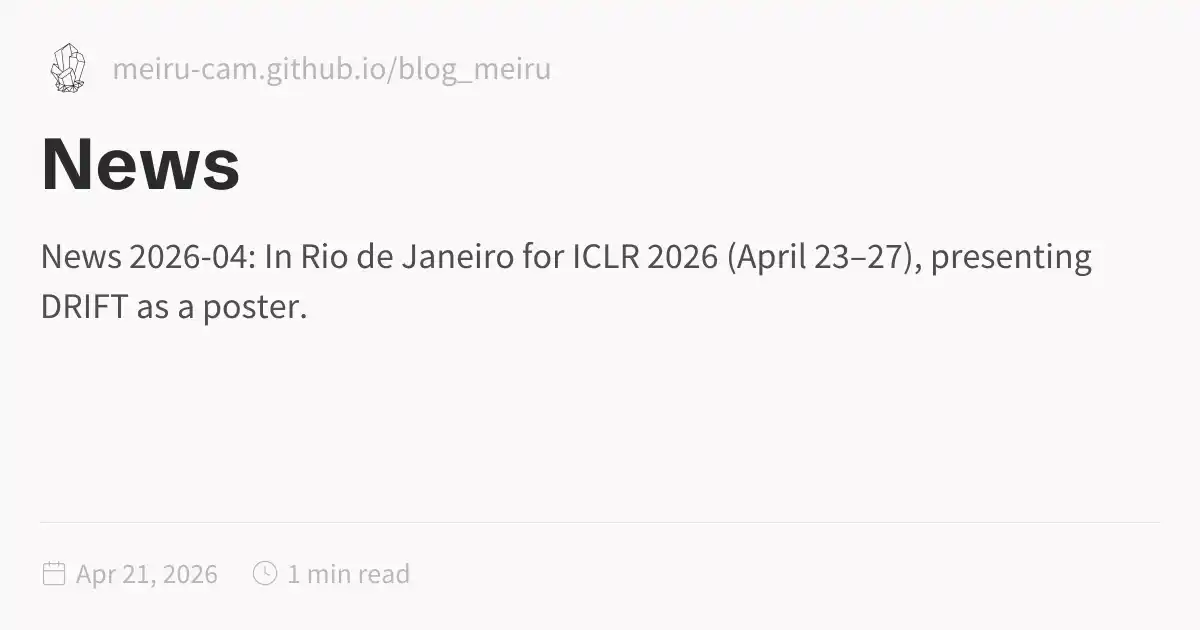
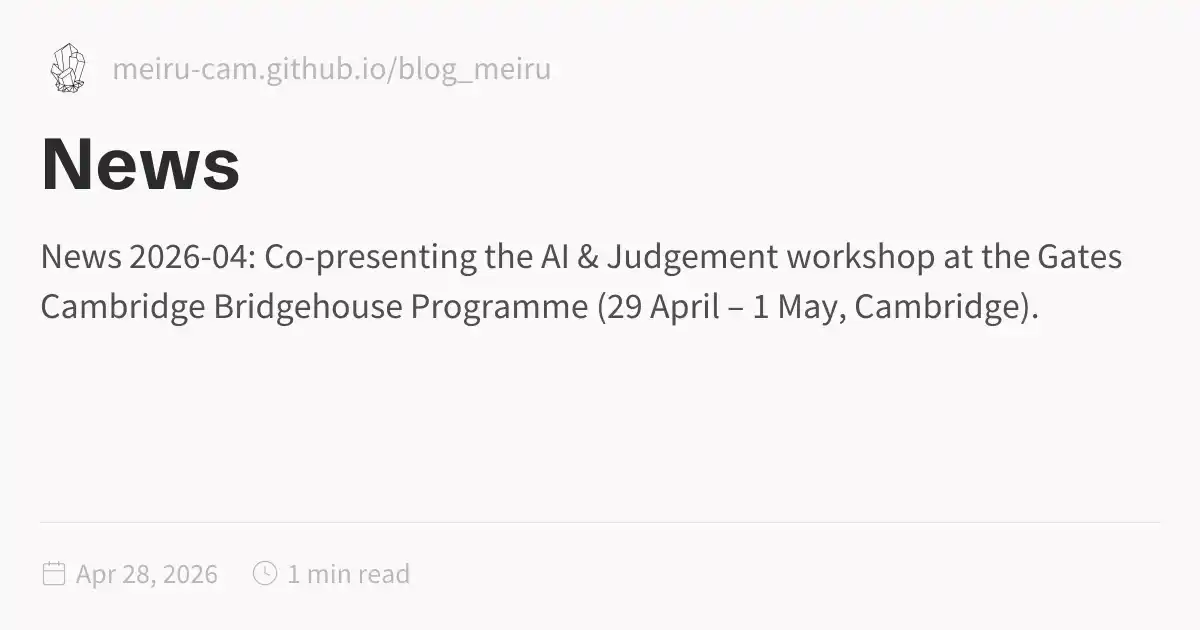
deploy: a9d456ec325950a489e578d77a48ade45badf2bd

Changed region(s): [[0.0308, 0.3921, 0.9558, 0.5127], [0.0925, 0.9048, 0.1233, 0.9349]]

diff --git a/Projects.html b/Projects.html
@@ -116,14 +116,11 @@ pre:hover > .expand-button {
   padding: 0 12px;
   font-size: 14px;
 }
[2 lines of base64/hex data omitted]
 <h2 id="priaxis--autonomous-personalised-agent-system"><a href="https://github.com/meiru-cam/Priaxis" class="external">Priaxis<svg aria-hidden="true" class="external-icon" style="max-width:0.8em;max-height:0.8em;" viewBox="0 0 512 512"><path d="M320 0H288V64h32 82.7L201.4 265.4 178.7 288 224 333.3l22.6-22.6L448 109.3V192v32h64V192 32 0H480 320zM32 32H0V64 480v32H32 456h32V480 352 320H424v32 96H64V96h96 32V32H160 32z"></path></svg></a> — Autonomous Personalised Agent System<a role="anchor" aria-hidden="true" tabindex="-1" data-no-popover="true" href="#priaxis--autonomous-personalised-agent-system" class="internal"><svg width="18" height="18" viewBox="0 0 24 24" fill="none" stroke="currentColor" stroke-width="2" stroke-linecap="round" stroke-linejoin="round"><path d="M10 13a5 5 0 0 0 7.54.54l3-3a5 5 0 0 0-7.07-7.07l-1.72 1.71"></path><path d="M14 11a5 5 0 0 0-7.54-.54l-3 3a5 5 0 0 0 7.07 7.07l1.71-1.71"></path></svg></a></h2>
 <p><em>2025 – Present</em></p>
 <p><strong>Challenge:</strong> How can an LLM agent autonomously manage personal goals while adapting to individual user context without explicit instruction?</p>
 <p><strong>Approach:</strong> A multi-agent system built on the Claude Code SDK and the Model Context Protocol (MCP) for structured tool use, with personalised planning and execution grounded in user history and preferences.</p>
-<h2 id="agent-survey--mismatch-in-language-agents-tmlr-in-preparation">Agent Survey — <em>Mismatch in Language Agents</em> (TMLR, in preparation)<a role="anchor" aria-hidden="true" tabindex="-1" data-no-popover="true" href="#agent-survey--mismatch-in-language-agents-tmlr-in-preparation" class="internal"><svg width="18" height="18" viewBox="0 0 24 24" fill="none" stroke="currentColor" stroke-width="2" stroke-linecap="round" stroke-linejoin="round"><path d="M10 13a5 5 0 0 0 7.54.54l3-3a5 5 0 0 0-7.07-7.07l-1.72 1.71"></path><path d="M14 11a5 5 0 0 0-7.54-.54l-3 3a5 5 0 0 0 7.07 7.07l1.71-1.71"></path></svg></a></h2>
-<p><em>2025 – Present</em></p>
-<p>A collaborative survey on mismatch phenomena in large language model agents: where agent behaviour diverges from intended specification, user expectation, or environmental state. Mapping failure modes across planning, tool use, memory, and evaluation.</p>
 <h2 id="this-site">This Site<a role="anchor" aria-hidden="true" tabindex="-1" data-no-popover="true" href="#this-site" class="internal"><svg width="18" height="18" viewBox="0 0 24 24" fill="none" stroke="currentColor" stroke-width="2" stroke-linecap="round" stroke-linejoin="round"><path d="M10 13a5 5 0 0 0 7.54.54l3-3a5 5 0 0 0-7.07-7.07l-1.72 1.71"></path><path d="M14 11a5 5 0 0 0-7.54-.54l-3 3a5 5 0 0 0 7.07 7.07l1.71-1.71"></path></svg></a></h2>
 <p><em>2025 – Present</em></p>
 <p>A Quartz-based academic site that doubles as a public research notebook. Blog posts cover literature reviews, PhD reflections, and technical deep-dives on topics like position bias in RAG systems.</p></article><hr/><div class="page-footer"></div></div><div class="right sidebar"><div class="graph"><h3>Graph View</h3><div class="graph-outer"><div class="graph-container" data-cfg="{&quot;drag&quot;:true,&quot;zoom&quot;:true,&quot;depth&quot;:1,&quot;scale&quot;:1.1,&quot;repelForce&quot;:0.5,&quot;centerForce&quot;:0.3,&quot;linkDistance&quot;:30,&quot;fontSize&quot;:0.6,&quot;opacityScale&quot;:1,&quot;showTags&quot;:true,&quot;removeTags&quot;:[],&quot;focusOnHover&quot;:false,&quot;enableRadial&quot;:false}"></div><button class="global-graph-icon" aria-label="Global Graph"><svg version="1.1" xmlns="http://www.w3.org/2000/svg" xmlns:xlink="http://www.w3.org/1999/xlink" x="0px" y="0px" viewBox="0 0 55 55" fill="currentColor" xml:space="preserve"><path d="M49,0c-3.309,0-6,2.691-6,6c0,1.035,0.263,2.009,0.726,2.86l-9.829,9.829C32.542,17.634,30.846,17,29,17
@@ -136,6 +133,6 @@ pre:hover > .expand-button {
                 C46.042,11.405,47.451,12,49,12c3.309,0,6-2.691,6-6S52.309,0,49,0z M11,9c0-1.103,0.897-2,2-2s2,0.897,2,2s-0.897,2-2,2
                 S11,10.103,11,9z M6,51c-2.206,0-4-1.794-4-4s1.794-4,4-4s4,1.794,4,4S8.206,51,6,51z M33,49c0,2.206-1.794,4-4,4s-4-1.794-4-4
                 s1.794-4,4-4S33,46.794,33,49z M29,31c-3.309,0-6-2.691-6-6s2.691-6,6-6s6,2.691,6,6S32.309,31,29,31z M47,41c0,1.103-0.897,2-2,2
-                s-2-0.897-2-2s0.897-2,2-2S47,39.897,47,41z M49,10c-2.206,0-4-1.794-4-4s1.794-4,4-4s4,1.794,4,4S51.206,10,49,10z"></path></svg></button></div><div class="global-graph-outer"><div class="global-graph-container" data-cfg="{&quot;drag&quot;:true,&quot;zoom&quot;:true,&quot;depth&quot;:-1,&quot;scale&quot;:0.9,&quot;repelForce&quot;:0.5,&quot;centerForce&quot;:0.2,&quot;linkDistance&quot;:30,&quot;fontSize&quot;:0.6,&quot;opacityScale&quot;:1,&quot;showTags&quot;:true,&quot;removeTags&quot;:[],&quot;focusOnHover&quot;:true,&quot;enableRadial&quot;:true}"></div></div></div><div class="toc desktop-only"><button type="button" class="toc-header" aria-controls="toc-1" aria-expanded="true"><h3>Table of Contents</h3><svg xmlns="http://www.w3.org/2000/svg" width="24" height="24" viewBox="0 0 24 24" fill="none" stroke="currentColor" stroke-width="2" stroke-linecap="round" stroke-linejoin="round" class="fold"><polyline points="6 9 12 15 18 9"></polyline></svg></button><ul id="list-1" class="toc-content overflow"><li class="depth-0"><a href="#projects" data-for="projects">Projects</a></li><li class="depth-1"><a href="#priaxis--autonomous-personalised-agent-system" data-for="priaxis--autonomous-personalised-agent-system">Priaxis — Autonomous Personalised Agent System</a></li><li class="depth-1"><a href="#agent-survey--mismatch-in-language-agents-tmlr-in-preparation" data-for="agent-survey--mismatch-in-language-agents-tmlr-in-preparation">Agent Survey — Mismatch in Language Agents (TMLR, in preparation)</a></li><li class="depth-1"><a href="#this-site" data-for="this-site">This Site</a></li><li class="overflow-end"></li></ul></div></div><footer class><p>Created with <a href="https://quartz.jzhao.xyz/">Quartz v4.5.2</a> © 2026</p><ul><li><a href="https://github.com/jackyzha0/quartz">GitHub</a></li><li><a href="https://discord.gg/cRFFHYye7t">Discord Community</a></li></ul></footer></div></div></body><script type="application/javascript">function n(){let t=this.parentElement;t.classList.toggle("is-collapsed");let e=t.getElementsByClassName("callout-content")[0];if(!e)return;let l=t.classList.contains("is-collapsed");e.style.gridTemplateRows=l?"0fr":"1fr"}function c(){let t=document.getElementsByClassName("callout is-collapsible");for(let e of t){let l=e.getElementsByClassName("callout-title")[0],s=e.getElementsByClassName("callout-content")[0];if(!l||!s)continue;l.addEventListener("click",n),window.addCleanup(()=>l.removeEventListener("click",n));let o=e.classList.contains("is-collapsed");s.style.gridTemplateRows=o?"0fr":"1fr"}}document.addEventListener("nav",c);
+                s-2-0.897-2-2s0.897-2,2-2S47,39.897,47,41z M49,10c-2.206,0-4-1.794-4-4s1.794-4,4-4s4,1.794,4,4S51.206,10,49,10z"></path></svg></button></div><div class="global-graph-outer"><div class="global-graph-container" data-cfg="{&quot;drag&quot;:true,&quot;zoom&quot;:true,&quot;depth&quot;:-1,&quot;scale&quot;:0.9,&quot;repelForce&quot;:0.5,&quot;centerForce&quot;:0.2,&quot;linkDistance&quot;:30,&quot;fontSize&quot;:0.6,&quot;opacityScale&quot;:1,&quot;showTags&quot;:true,&quot;removeTags&quot;:[],&quot;focusOnHover&quot;:true,&quot;enableRadial&quot;:true}"></div></div></div><div class="toc desktop-only"><button type="button" class="toc-header" aria-controls="toc-1" aria-expanded="true"><h3>Table of Contents</h3><svg xmlns="http://www.w3.org/2000/svg" width="24" height="24" viewBox="0 0 24 24" fill="none" stroke="currentColor" stroke-width="2" stroke-linecap="round" stroke-linejoin="round" class="fold"><polyline points="6 9 12 15 18 9"></polyline></svg></button><ul id="list-1" class="toc-content overflow"><li class="depth-0"><a href="#projects" data-for="projects">Projects</a></li><li class="depth-1"><a href="#priaxis--autonomous-personalised-agent-system" data-for="priaxis--autonomous-personalised-agent-system">Priaxis — Autonomous Personalised Agent System</a></li><li class="depth-1"><a href="#this-site" data-for="this-site">This Site</a></li><li class="overflow-end"></li></ul></div></div><footer class><p>Created with <a href="https://quartz.jzhao.xyz/">Quartz v4.5.2</a> © 2026</p><ul><li><a href="https://github.com/jackyzha0/quartz">GitHub</a></li><li><a href="https://discord.gg/cRFFHYye7t">Discord Community</a></li></ul></footer></div></div></body><script type="application/javascript">function n(){let t=this.parentElement;t.classList.toggle("is-collapsed");let e=t.getElementsByClassName("callout-content")[0];if(!e)return;let l=t.classList.contains("is-collapsed");e.style.gridTemplateRows=l?"0fr":"1fr"}function c(){let t=document.getElementsByClassName("callout is-collapsible");for(let e of t){let l=e.getElementsByClassName("callout-title")[0],s=e.getElementsByClassName("callout-content")[0];if(!l||!s)continue;l.addEventListener("click",n),window.addCleanup(()=>l.removeEventListener("click",n));let o=e.classList.contains("is-collapsed");s.style.gridTemplateRows=o?"0fr":"1fr"}}document.addEventListener("nav",c);
 </script><script type="module">function f(i,e){if(!i)return;function r(o){o.target===this&&(o.preventDefault(),o.stopPropagation(),e())}function t(o){o.key.startsWith("Esc")&&(o.preventDefault(),e())}i?.addEventListener("click",r),window.addCleanup(()=>i?.removeEventListener("click",r)),document.addEventListener("keydown",t),window.addCleanup(()=>document.removeEventListener("keydown",t))}function y(i){for(;i.firstChild;)i.removeChild(i.firstChild)}var h=class{constructor(e,r){this.container=e;this.content=r;this.setupEventListeners(),this.setupNavigationControls(),this.resetTransform()}isDragging=!1;startPan={x:0,y:0};currentPan={x:0,y:0};scale=1;MIN_SCALE=.5;MAX_SCALE=3;cleanups=[];setupEventListeners(){let e=this.onMouseDown.bind(this),r=this.onMouseMove.bind(this),t=this.onMouseUp.bind(this),o=this.resetTransform.bind(this);this.container.addEventListener("mousedown",e),document.addEventListener("mousemove",r),document.addEventListener("mouseup",t),window.addEventListener("resize",o),this.cleanups.push(()=>this.container.removeEventListener("mousedown",e),()=>document.removeEventListener("mousemove",r),()=>document.removeEventListener("mouseup",t),()=>window.removeEventListener("resize",o))}cleanup(){for(let e of this.cleanups)e()}setupNavigationControls(){let e=document.createElement("div");e.className="mermaid-controls";let r=this.createButton("+",()=>this.zoom(.1)),t=this.createButton("-",()=>this.zoom(-.1)),o=this.createButton("Reset",()=>this.resetTransform());e.appendChild(t),e.appendChild(o),e.appendChild(r),this.container.appendChild(e)}createButton(e,r){let t=document.createElement("button");return t.textContent=e,t.className="mermaid-control-button",t.addEventListener("click",r),window.addCleanup(()=>t.removeEventListener("click",r)),t}onMouseDown(e){e.button===0&&(this.isDragging=!0,this.startPan={x:e.clientX-this.currentPan.x,y:e.clientY-this.currentPan.y},this.container.style.cursor="grabbing")}onMouseMove(e){this.isDragging&&(e.preventDefault(),this.currentPan={x:e.clientX-this.startPan.x,y:e.clientY-this.startPan.y},this.updateTransform())}onMouseUp(){this.isDragging=!1,this.container.style.cursor="grab"}zoom(e){let r=Math.min(Math.max(this.scale+e,this.MIN_SCALE),this.MAX_SCALE),t=this.content.getBoundingClientRect(),o=t.width/2,n=t.height/2,c=r-this.scale;this.currentPan.x-=o*c,this.currentPan.y-=n*c,this.scale=r,this.updateTransform()}updateTransform(){this.content.style.transform=`translate(${this.currentPan.x}px, ${this.currentPan.y}px) scale(${this.scale})`}resetTransform(){this.scale=1;let e=this.content.querySelector("svg");this.currentPan={x:e.getBoundingClientRect().width/2,y:e.getBoundingClientRect().height/2},this.updateTransform()}},C=["--secondary","--tertiary","--gray","--light","--lightgray","--highlight","--dark","--darkgray","--codeFont"],E;document.addEventListener("nav",async()=>{let e=document.querySelector(".center").querySelectorAll("code.mermaid");if(e.length===0)return;E||=await import("https://cdnjs.cloudflare.com/ajax/libs/mermaid/11.4.0/mermaid.esm.min.mjs");let r=E.default,t=new WeakMap;for(let n of e)t.set(n,n.innerText);async function o(){for(let s of e){s.removeAttribute("data-processed");let a=t.get(s);a&&(s.innerHTML=a)}let n=C.reduce((s,a)=>(s[a]=window.getComputedStyle(document.documentElement).getPropertyValue(a),s),{}),c=document.documentElement.getAttribute("saved-theme")==="dark";r.initialize({startOnLoad:!1,securityLevel:"loose",theme:c?"dark":"base",themeVariables:{fontFamily:n["--codeFont"],primaryColor:n["--light"],primaryTextColor:n["--darkgray"],primaryBorderColor:n["--tertiary"],lineColor:n["--darkgray"],secondaryColor:n["--secondary"],tertiaryColor:n["--tertiary"],clusterBkg:n["--light"],edgeLabelBackground:n["--highlight"]}}),await r.run({nodes:e})}await o(),document.addEventListener("themechange",o),window.addCleanup(()=>document.removeEventListener("themechange",o));for(let n=0;n<e.length;n++){let v=function(){let g=l.querySelector("#mermaid-space"),m=l.querySelector(".mermaid-content");if(!m)return;y(m);let w=c.querySelector("svg").cloneNode(!0);m.appendChild(w),l.classList.add("active"),g.style.cursor="grab",u=new h(g,m)},M=function(){l.classList.remove("active"),u?.cleanup(),u=null},c=e[n],s=c.parentElement,a=s.querySelector(".clipboard-button"),d=s.querySelector(".expand-button"),p=window.getComputedStyle(a),L=a.offsetWidth+parseFloat(p.marginLeft||"0")+parseFloat(p.marginRight||"0");d.style.right=`calc(${L}px + 0.3rem)`,s.prepend(d);let l=s.querySelector("#mermaid-container");if(!l)return;let u=null;d.addEventListener("click",v),f(l,M),window.addCleanup(()=>{u?.cleanup(),d.removeEventListener("click",v)})}});
 </script><script src="https://cdn.jsdelivr.net/npm/katex@0.16.11/dist/contrib/copy-tex.min.js" type="application/javascript"></script><script src="./postscript.js" type="module"></script></html>

diff --git a/News.html b/News.html
@@ -1,5 +1,5 @@
 <!DOCTYPE html>
-<html lang="en" dir="ltr"><head><title>News</title><meta charset="utf-8"/><link rel="preconnect" href="https://fonts.googleapis.com"/><link rel="preconnect" href="https://fonts.gstatic.com"/><link rel="stylesheet" href="https://fonts.googleapis.com/css2?family=Schibsted Grotesk:wght@400;700&amp;family=Source Sans Pro:ital,wght@0,400;0,600;1,400;1,600&amp;family=IBM Plex Mono:wght@400;600&amp;display=swap"/><link rel="preconnect" href="https://cdnjs.cloudflare.com" crossorigin="anonymous"/><meta name="viewport" content="width=device-width, initial-scale=1.0"/><meta name="og:site_name" content="Meiru Zhang"/><meta property="og:title" content="News"/><meta property="og:type" content="website"/><meta name="twitter:card" content="summary_large_image"/><meta name="twitter:title" content="News"/><meta name="twitter:description" content="News 2026-04: In Rio de Janeiro for ICLR 2026 (April 23–27), presenting DRIFT as a poster."/><meta property="og:description" content="News 2026-04: In Rio de Janeiro for ICLR 2026 (April 23–27), presenting DRIFT as a poster."/><meta property="og:image:alt" content="News 2026-04: In Rio de Janeiro for ICLR 2026 (April 23–27), presenting DRIFT as a poster."/><meta property="twitter:domain" content="meiru-cam.github.io/blog_meiru"/><meta property="og:url" content="https://meiru-cam.github.io/blog_meiru/News"/><meta property="twitter:url" content="https://meiru-cam.github.io/blog_meiru/News"/><link rel="icon" href="./static/icon.png"/><meta name="description" content="News 2026-04: In Rio de Janeiro for ICLR 2026 (April 23–27), presenting DRIFT as a poster."/><meta name="generator" content="Quartz"/><link href="./index.css" rel="stylesheet" type="text/css" spa-preserve/><style>.expand-button {
+<html lang="en" dir="ltr"><head><title>News</title><meta charset="utf-8"/><link rel="preconnect" href="https://fonts.googleapis.com"/><link rel="preconnect" href="https://fonts.gstatic.com"/><link rel="stylesheet" href="https://fonts.googleapis.com/css2?family=Schibsted Grotesk:wght@400;700&amp;family=Source Sans Pro:ital,wght@0,400;0,600;1,400;1,600&amp;family=IBM Plex Mono:wght@400;600&amp;display=swap"/><link rel="preconnect" href="https://cdnjs.cloudflare.com" crossorigin="anonymous"/><meta name="viewport" content="width=device-width, initial-scale=1.0"/><meta name="og:site_name" content="Meiru Zhang"/><meta property="og:title" content="News"/><meta property="og:type" content="website"/><meta name="twitter:card" content="summary_large_image"/><meta name="twitter:title" content="News"/><meta name="twitter:description" content="News 2026-04: Co-presenting the AI &amp; Judgement workshop at the Gates Cambridge Bridgehouse Programme (29 April – 1 May, Cambridge)."/><meta property="og:description" content="News 2026-04: Co-presenting the AI &amp; Judgement workshop at the Gates Cambridge Bridgehouse Programme (29 April – 1 May, Cambridge)."/><meta property="og:image:alt" content="News 2026-04: Co-presenting the AI &amp; Judgement workshop at the Gates Cambridge Bridgehouse Programme (29 April – 1 May, Cambridge)."/><meta property="twitter:domain" content="meiru-cam.github.io/blog_meiru"/><meta property="og:url" content="https://meiru-cam.github.io/blog_meiru/News"/><meta property="twitter:url" content="https://meiru-cam.github.io/blog_meiru/News"/><link rel="icon" href="./static/icon.png"/><meta name="description" content="News 2026-04: Co-presenting the AI &amp; Judgement workshop at the Gates Cambridge Bridgehouse Programme (29 April – 1 May, Cambridge)."/><meta name="generator" content="Quartz"/><link href="./index.css" rel="stylesheet" type="text/css" spa-preserve/><style>.expand-button {
   position: absolute;
   display: flex;
   float: right;
@@ -116,8 +116,9 @@ pre:hover > .expand-button {
   padding: 0 12px;
   font-size: 14px;
 }
[2 lines of base64/hex data omitted]
 <ul>
+<li><strong>2026-04:</strong> Co-presenting the <em>AI &amp; Judgement</em> workshop at the <strong>Gates Cambridge Bridgehouse Programme</strong> (29 April – 1 May, Cambridge).</li>
 <li><strong>2026-04:</strong> In Rio de Janeiro for <strong>ICLR 2026</strong> (April 23–27), presenting <a href="https://arxiv.org/abs/2510.10815" class="external">DRIFT<svg aria-hidden="true" class="external-icon" style="max-width:0.8em;max-height:0.8em;" viewBox="0 0 512 512"><path d="M320 0H288V64h32 82.7L201.4 265.4 178.7 288 224 333.3l22.6-22.6L448 109.3V192v32h64V192 32 0H480 320zM32 32H0V64 480v32H32 456h32V480 352 320H424v32 96H64V96h96 32V32H160 32z"></path></svg></a> as a poster.</li>
 <li><strong>2026-04:</strong> <a href="https://arxiv.org/abs/2601.12499" class="external">Failure Modes in Multi-Hop QA: The Weakest Link Effect and Recognition Bottleneck<svg aria-hidden="true" class="external-icon" style="max-width:0.8em;max-height:0.8em;" viewBox="0 0 512 512"><path d="M320 0H288V64h32 82.7L201.4 265.4 178.7 288 224 333.3l22.6-22.6L448 109.3V192v32h64V192 32 0H480 320zM32 32H0V64 480v32H32 456h32V480 352 320H424v32 96H64V96h96 32V32H160 32z"></path></svg></a> accepted to <strong>ACL 2026</strong>.</li>
 <li><strong>2026-03:</strong> PhD thesis submitted at the University of Cambridge.</li>
